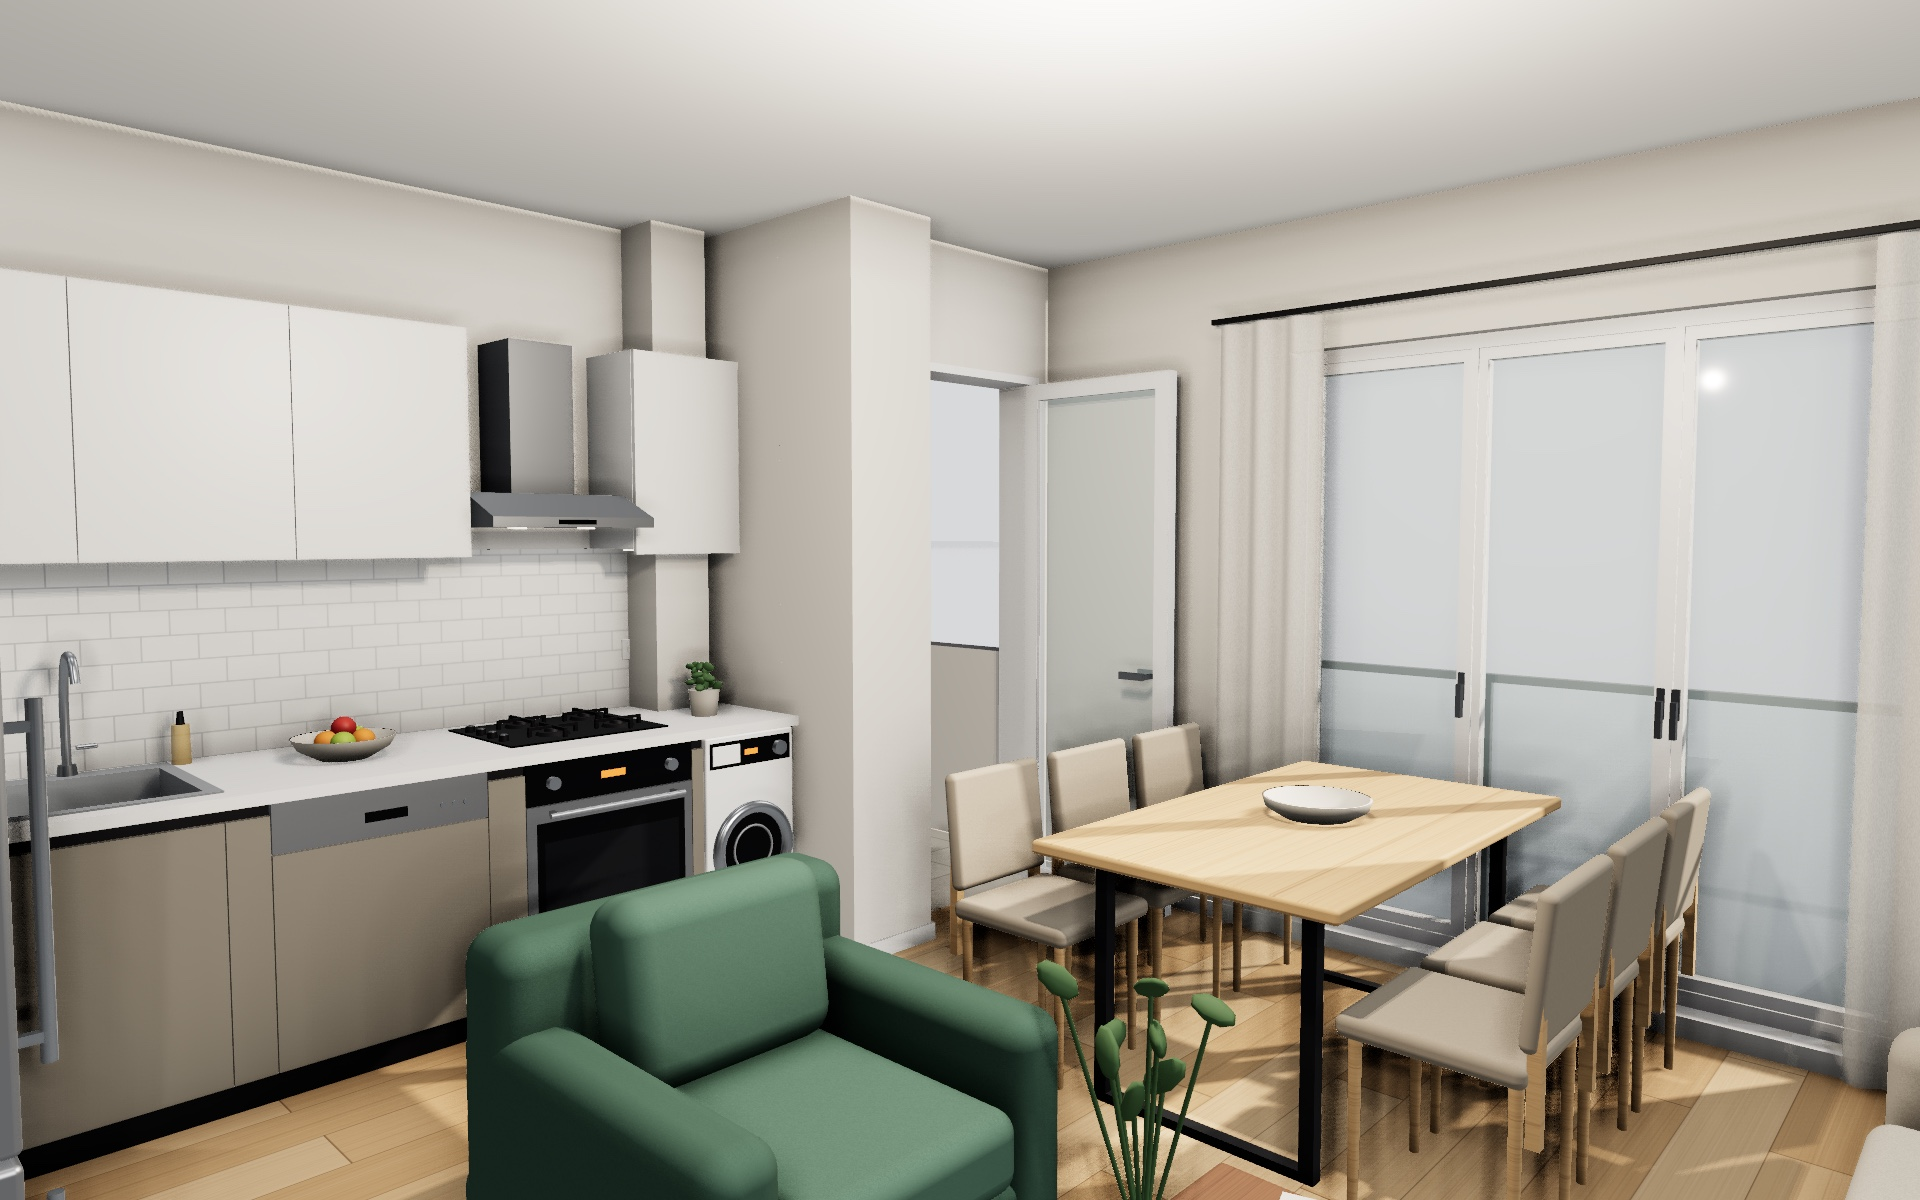
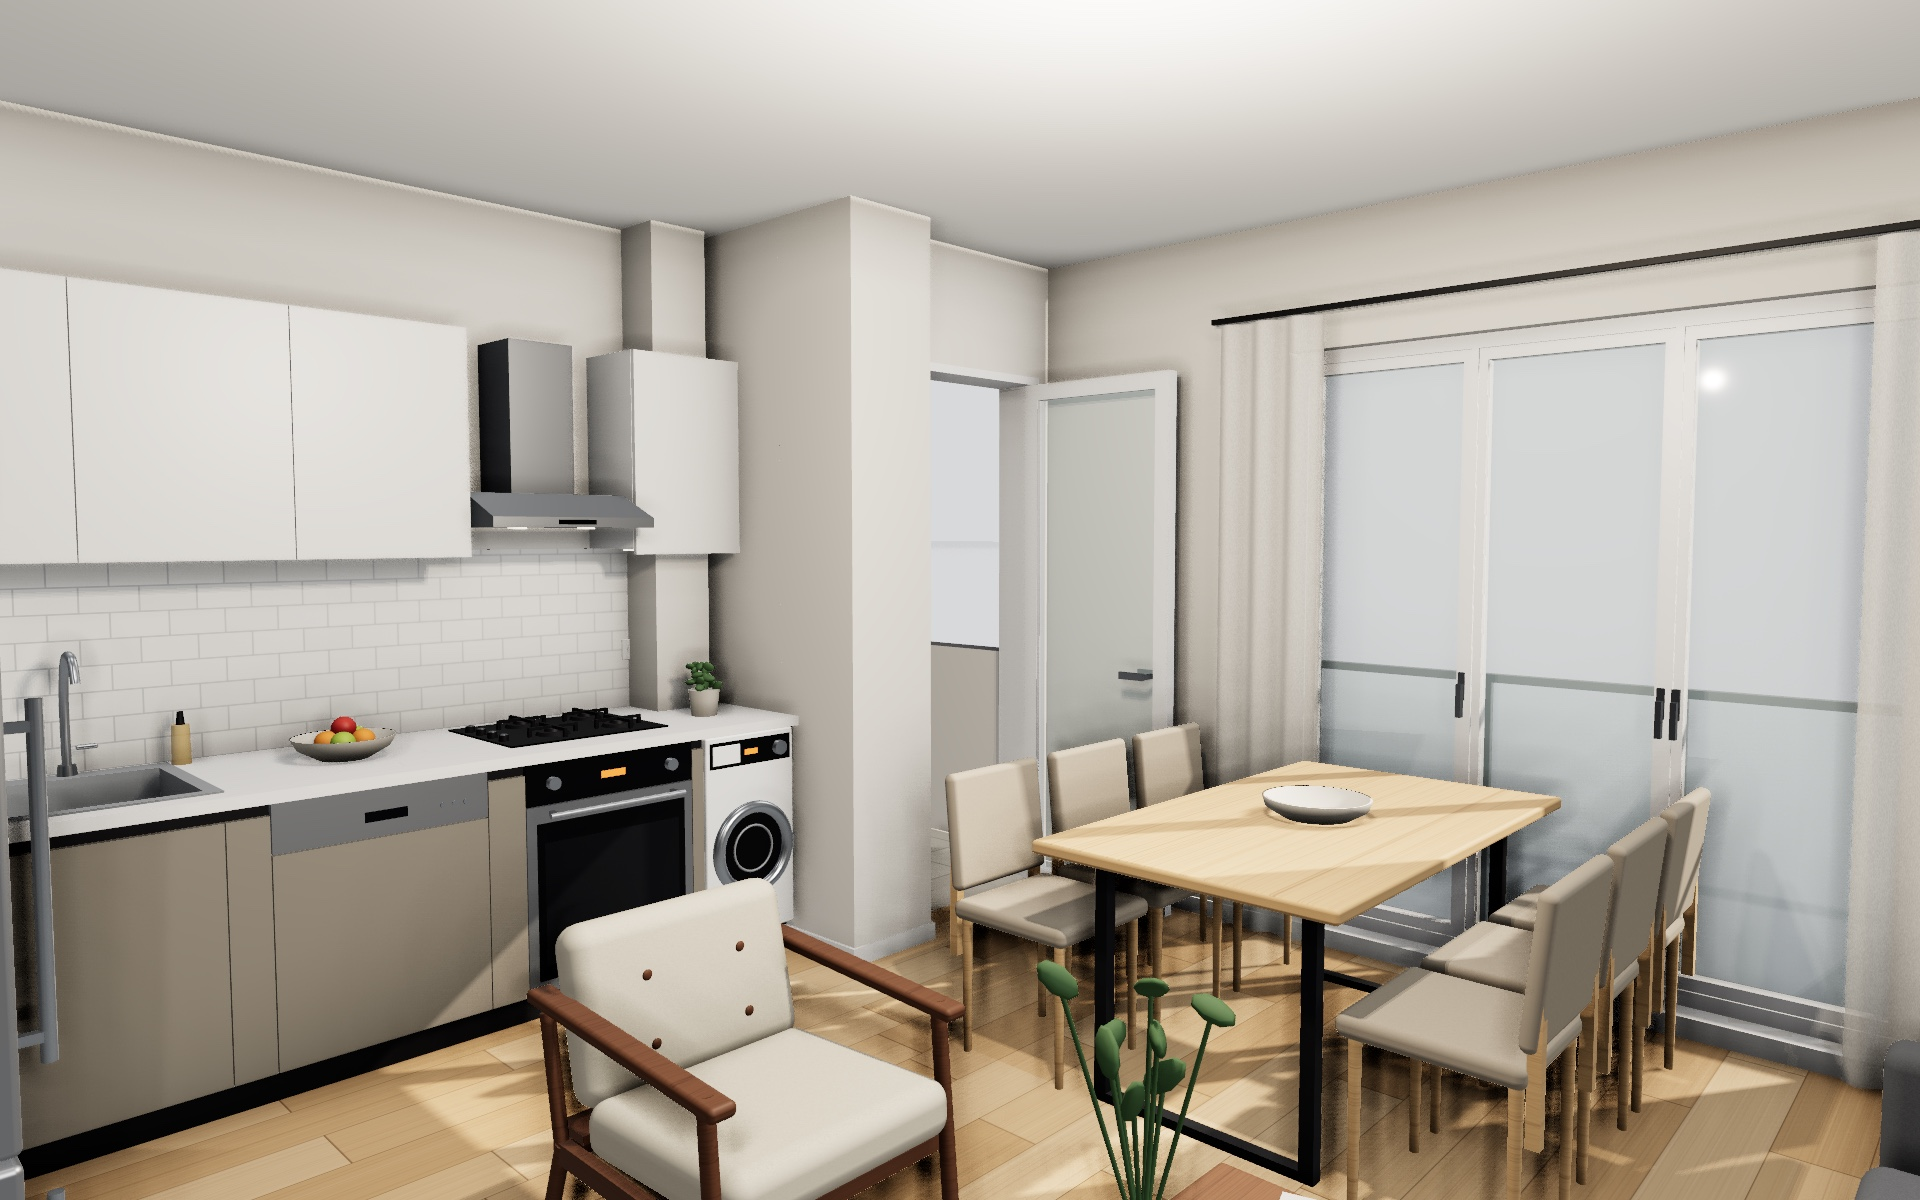
Add files via upload

Changed region(s): [[0.2188, 0.7092, 0.5938, 1.0], [0.9375, 0.8633, 1.0, 1.0]]

diff --git a/daire-3d-yeni.html b/daire-3d-yeni.html
@@ -264,6 +264,11 @@ const M = {
     side: THREE.DoubleSide, depthWrite: false, envMapIntensity: 1.8 }),
   mirror: std({ color: 0xffffff, metalness: 1, roughness: .03, envMapIntensity: 3 }),
   sofa: std({ map: tFabric, color: 0xb7afa2, roughness: .96 }),
+  gunnared: std({ map: tFabric, color: 0x5d6064, roughness: .96 }),        // LANDSKRONA cover, Gunnared dark grey
+  gunnaredCush: std({ map: tFabric, color: 0x686b70, roughness: .96 }),
+  kelinge: std({ map: tFabric, color: 0xcbbda3, roughness: .96 }),          // STRANDMON cover, Kelinge beige
+  kilanda: std({ map: tFabric, color: 0xd8cfbc, roughness: .96 }),          // EKENASET cover, Kilanda light beige
+  ekWood: std({ map: tGrain, color: 0x6a4630, roughness: .5 }),              // EKENASET frame, dark-stained solid wood
   sofaCush: std({ map: tFabric, color: 0xc9c2b6, roughness: .96 }),
   armchair: std({ map: tFabric, color: 0x4d6a5b, roughness: .96 }),
   armCush: std({ map: tFabric, color: 0x5a7969, roughness: .96 }),
@@ -547,6 +552,48 @@ tp([417.5, 969.3], [296.5, 969.3]); tp([296.2, 969.5], [299.3, 844.5]);
 
 const fixtures = new THREE.Group(); fixtures.visible = false; scene.add(fixtures);   // ceiling lamps / pendants, eye-level views only
 // ---------------------------------------------------------------- furniture builders
+// IKEA LANDSKRONA 3-seat sofa, Gunnared dark grey, metal legs (art. 592.703.06): 204x89x78 cm, arm height 64, seat height 44, seat depth 61.
+function landskrona(r, f) {
+  const { g, w, d } = G(r, f), arm = .12, zb = -d / 2, bk = .16, fab = M.gunnared, cu = M.gunnaredCush; tag("IKEA LANDSKRONA 3'lü", g, w, d, .9);
+  for (const sx of [-1, 1]) for (const sz of [-1, 1]) { const lx = sx * (w / 2 - .09), lz = sz * (d / 2 - .09); cyl(g, lx, 0, .15, lz, .012, .012, M.chrome, 10); }
+  for (const sz of [-1, 1]) tube(v3(-w / 2 + .09, .012, sz * (d / 2 - .09)), v3(w / 2 - .09, .012, sz * (d / 2 - .09)), .01, M.chrome, g);          // chromed runners
+  lb(g, -w / 2, w / 2, .15, .31, zb, d / 2 - .02, fab, .025);                                                    // base
+  lb(g, -w / 2, w / 2, .15, .74, zb, zb + bk, fab, .035);                                                        // back frame
+  for (const sx of [-1, 1]) lb(g, sx * w / 2, sx * (w / 2 - arm), .15, .64, zb, d / 2 - .02, fab, .035);         // slim arms, 64 cm high
+  const sw = (w - 2 * arm) / 3;
+  for (let i = 0; i < 3; i++) { const x0 = -w / 2 + arm + i * sw;
+    lb(g, x0 + .006, x0 + sw - .006, .30, .44, zb + bk + .1, d / 2, cu, .045);                                   // seat cushions, 44 cm high
+    const b = lb(g, x0 + .012, x0 + sw - .012, .43, .78, zb + bk - .02, zb + bk + .13, cu, .06); b.rotation.x = -.12;
+    const bt = mesh(new THREE.SphereGeometry(.014, 10, 8), fab, g, false); bt.scale.z = .4; bt.position.set(x0 + sw / 2, .62, zb + bk + .128); }
+}
+// IKEA STRANDMON wing chair, Kelinge beige (art. 104.928.13): 82x96x101 cm, seat height 45, seat 49x54 cm, wooden legs.
+function strandmon(r, f) {
+  const { g, w, d } = G(r, f), zb = -d / 2, fab = M.kelinge; tag('IKEA STRANDMON berjer', g, w, d, 1.08);
+  for (const sx of [-1, 1]) { cyl(g, sx * (w / 2 - .12), 0, .19, d / 2 - .14, .024, .016, M.walnut, 10); const bl = cyl(g, sx * (w / 2 - .14), 0, .19, zb + .16, .024, .016, M.walnut, 10); bl.rotation.x = -.18; }
+  lb(g, -w / 2 + .1, w / 2 - .1, .18, .35, zb + .14, d / 2 - .06, fab, .04);                                     // seat frame
+  lb(g, -w / 2 + .165, w / 2 - .165, .33, .46, zb + .3, d / 2 - .02, fab, .055);                                 // seat cushion 49 cm wide
+  const back = lb(g, -w / 2 + .14, w / 2 - .14, .34, 1.0, zb + .1, zb + .28, fab, .08); back.rotation.x = -.13;  // high back
+  for (const sx of [-1, 1]) { const x0 = sx * (w / 2 - .01), x1 = sx * (w / 2 - .15);
+    lb(g, x0, x1, .2, .56, zb + .2, d / 2 - .1, fab, .05);                                                      // arm
+    const roll = mesh(new THREE.CylinderGeometry(.078, .078, d - .34, 20), fab, g); roll.rotation.x = Math.PI / 2; roll.position.set(sx * (w / 2 - .078), .56, .03);
+    const cap = mesh(new THREE.SphereGeometry(.078, 16, 12), fab, g); cap.position.set(sx * (w / 2 - .078), .56, d / 2 - .14);
+    const wing = lb(g, sx * (w / 2 - .03), sx * (w / 2 - .13), .58, .98, zb + .12, zb + .44, fab, .05); wing.rotation.x = -.13; wing.rotation.y = sx * -.12; }
+}
+// IKEA EKENASET armchair, Kilanda light beige (art. 905.331.74): 64x78x76 cm, armrest height 63, seat height 45, seat 56x50 cm.
+// Mid-century frame in dark-stained solid wood with slim wooden armrests; loose seat and back cushions.
+function ekenaset(r, f) {
+  const { g, w, d } = G(r, f), zb = -d / 2, zf = d / 2 - .09, wd = M.ekWood, fab = M.kilanda; tag('IKEA EKENÄSET', g, w, d, .86);
+  for (const sx of [-1, 1]) { const x = sx * (w / 2 - .028);
+    tube(v3(x, 0, zf + .025), v3(x, .615, zf - .03), .018, wd, g);                               // front leg runs up to carry the armrest
+    tube(v3(x, 0, zb + .03), v3(x, .34, zb + .15), .018, wd, g); tube(v3(x, .32, zb + .145), v3(x, .6, zb + .09), .016, wd, g);   // splayed rear leg + arm post
+    const arm = lb(g, x - .03, x + .03, .6, .63, zb + .05, zf + .03, wd, .012); arm.rotation.x = .05;                     // wooden armrest, 63 cm
+    lb(g, x - .013, x + .013, .3, .345, zb + .13, zf - .01, wd); }
+  lb(g, -w / 2 + .03, w / 2 - .03, .3, .345, zf - .035, zf - .01, wd); lb(g, -w / 2 + .03, w / 2 - .03, .3, .345, zb + .13, zb + .155, wd);
+  const seat = lb(g, -.28, .28, .335, .455, zb + .2, d / 2 - .055, fab, .045); seat.rotation.x = -.05;
+  const back = lb(g, -.275, .275, .4, .78, zb + .09, zb + .2, fab, .05); back.rotation.x = -.24;
+  for (const sx of [-1, 1]) for (const sy of [.52, .66]) { const b = mesh(new THREE.SphereGeometry(.012, 10, 8), wd, g, false); b.scale.z = .4; b.position.set(sx * .12, sy, zb + .215 + (sy - .59) * -.24); }
+  lb(g, -.275, .275, .345, .365, zb + .1, zb + .2, wd);                                                              // back rail under the cushion
+}
 function sofa(r, f, n, body, cush) {
   const { g, w, d } = G(r, f), arm = .16, back = .22; tag(n > 1 ? 'Üçlü koltuk' : 'Berjer', g, w, d, .92);
   lb(g, -w / 2, w / 2, .10, .30, -d / 2, d / 2 - .04, body, .04);
@@ -827,8 +874,8 @@ kitchen([528, 211, 721, 252], [{ k: 'sink', a: 578, b: 606 }, { k: 'dw', a: 612.
 fridge([529.5, 297.5, 568, 340], 'E');
 tvUnit([529.6, 347, 548, 438], 'E'); coffee([622, 396, 667, 427]);
 dining([700, 340, 795, 394]);
-sofa([612, 322, 665, 377], 'S', 1, M.armchair, M.armCush); sofa([745, 460, 798, 514], 'N', 1, M.armchair, M.armCush);
-sofa([590, 449, 733, 502.5], 'N', 3, M.sofa, M.sofaCush);
+ekenaset([619.4, 322.3, 657.6, 368.9], 'S'); ekenaset([752.4, 463.1, 790.6, 509.7], 'N');
+landskrona([600.6, 449.4, 722.4, 502.5], 'N');
 smastad([558, 624.4, 592, 696], 'E', 2); bed([677.5, 642, 802.5, 696], 'W', false, M.throw2); nightstand([775, 609, 800.5, 638], 'W');
 shower([310.5, 343], 61, 54, 0); washer([389, 343.5, 426, 378], 'S'); toilet([340, 430, 364, 464], 'N'); vanity([388, 434, 428, 464], 'N'); bin(370, 454);
 kombi([538, 173, 569, 199], 'N');
@@ -837,7 +884,7 @@ paxForsand([556.5, 712, 592.3, 843.3], 'E', -1); bed([665, 712, 750.4, 837], 'S'
 nightstand([632.5, 712, 663, 741], 'S'); nightstand([752.5, 712, 781.7, 741], 'S');
 kitchen([602.5, 925, 763, 966], [{ k: 'wm', a: 602.5, b: 628.7 }, { k: 'hob', a: 632, b: 669.5 }, { k: 'sink', a: 683, b: 712.5 }, { k: 'dw', a: 725.5, b: 761 }], .04);
 fridge([763, 925, 804.5, 967], 'S');
-tvUnit([492, 1009, 509, 1099], 'E'); sofa([520, 1113, 663, 1167.5], 'N', 3, M.sofa, M.sofaCush); sofa([612, 1040, 665, 1095], 'W', 1, M.armchair, M.armCush);
+tvUnit([492, 1009, 509, 1099], 'E'); landskrona([530.6, 1114.4, 652.4, 1167.5], 'N'); coffee([545, 1061, 590, 1092]); ekenaset([615.2, 1048.4, 661.8, 1086.6], 'W');
 dining([700, 1050, 795, 1104]);
 smastad([298, 977, 405.5, 1011], 'S', 3); bed([425, 1052, 479, 1174], 'N', false, M.throw1); nightstand([397, 1136, 423, 1164], 'N');
 dresser([748, 889, 803, 916], 'N');
@@ -860,7 +907,7 @@ function books(x, y, h) { const g = new THREE.Group(); g.position.set(X(x), h, Z
 rug([602, 384, 690, 441]); rug([522, 1026, 604, 1106]);
 art([700, 517.8], [632, 517.8], 1.2, 1.95, 5); art([518.3, 166], [518.3, 209], 1.3, 1.8, 9); art([682, 710.7], [733, 710.7], 1.3, 1.8, 14);
 art([772, 698.8], [722, 698.8], 1.2, 1.7, 23);
-vase(634, 408, .41); books(654, 414, .41); vase(538.5, 362, .48); vase(500.5, 1022, .48); books(500.5, 1085, .48);
+vase(634, 408, .41); books(654, 414, .41); vase(538.5, 362, .48); vase(500.5, 1022, .48); books(500.5, 1085, .48); vase(557, 1073, .41); books(577, 1079, .41);
 const LIGHTS = [[665, 385], [410, 200], [680, 610], [372, 402], [483, 440], [650, 1055], [690, 815], [390, 1070], [358, 905], [505, 650]];
 LIGHTS.forEach(l => { const m = mesh(new THREE.CylinderGeometry(.17, .17, .04, 40), M.lamp, fixtures, false); m.position.set(X(l[0]), H - .02, Z(l[1]));
   const k = mesh(new THREE.CylinderGeometry(.185, .185, .025, 40), M.white, fixtures, false); k.position.set(X(l[0]), H - .0125, Z(l[1])); });
